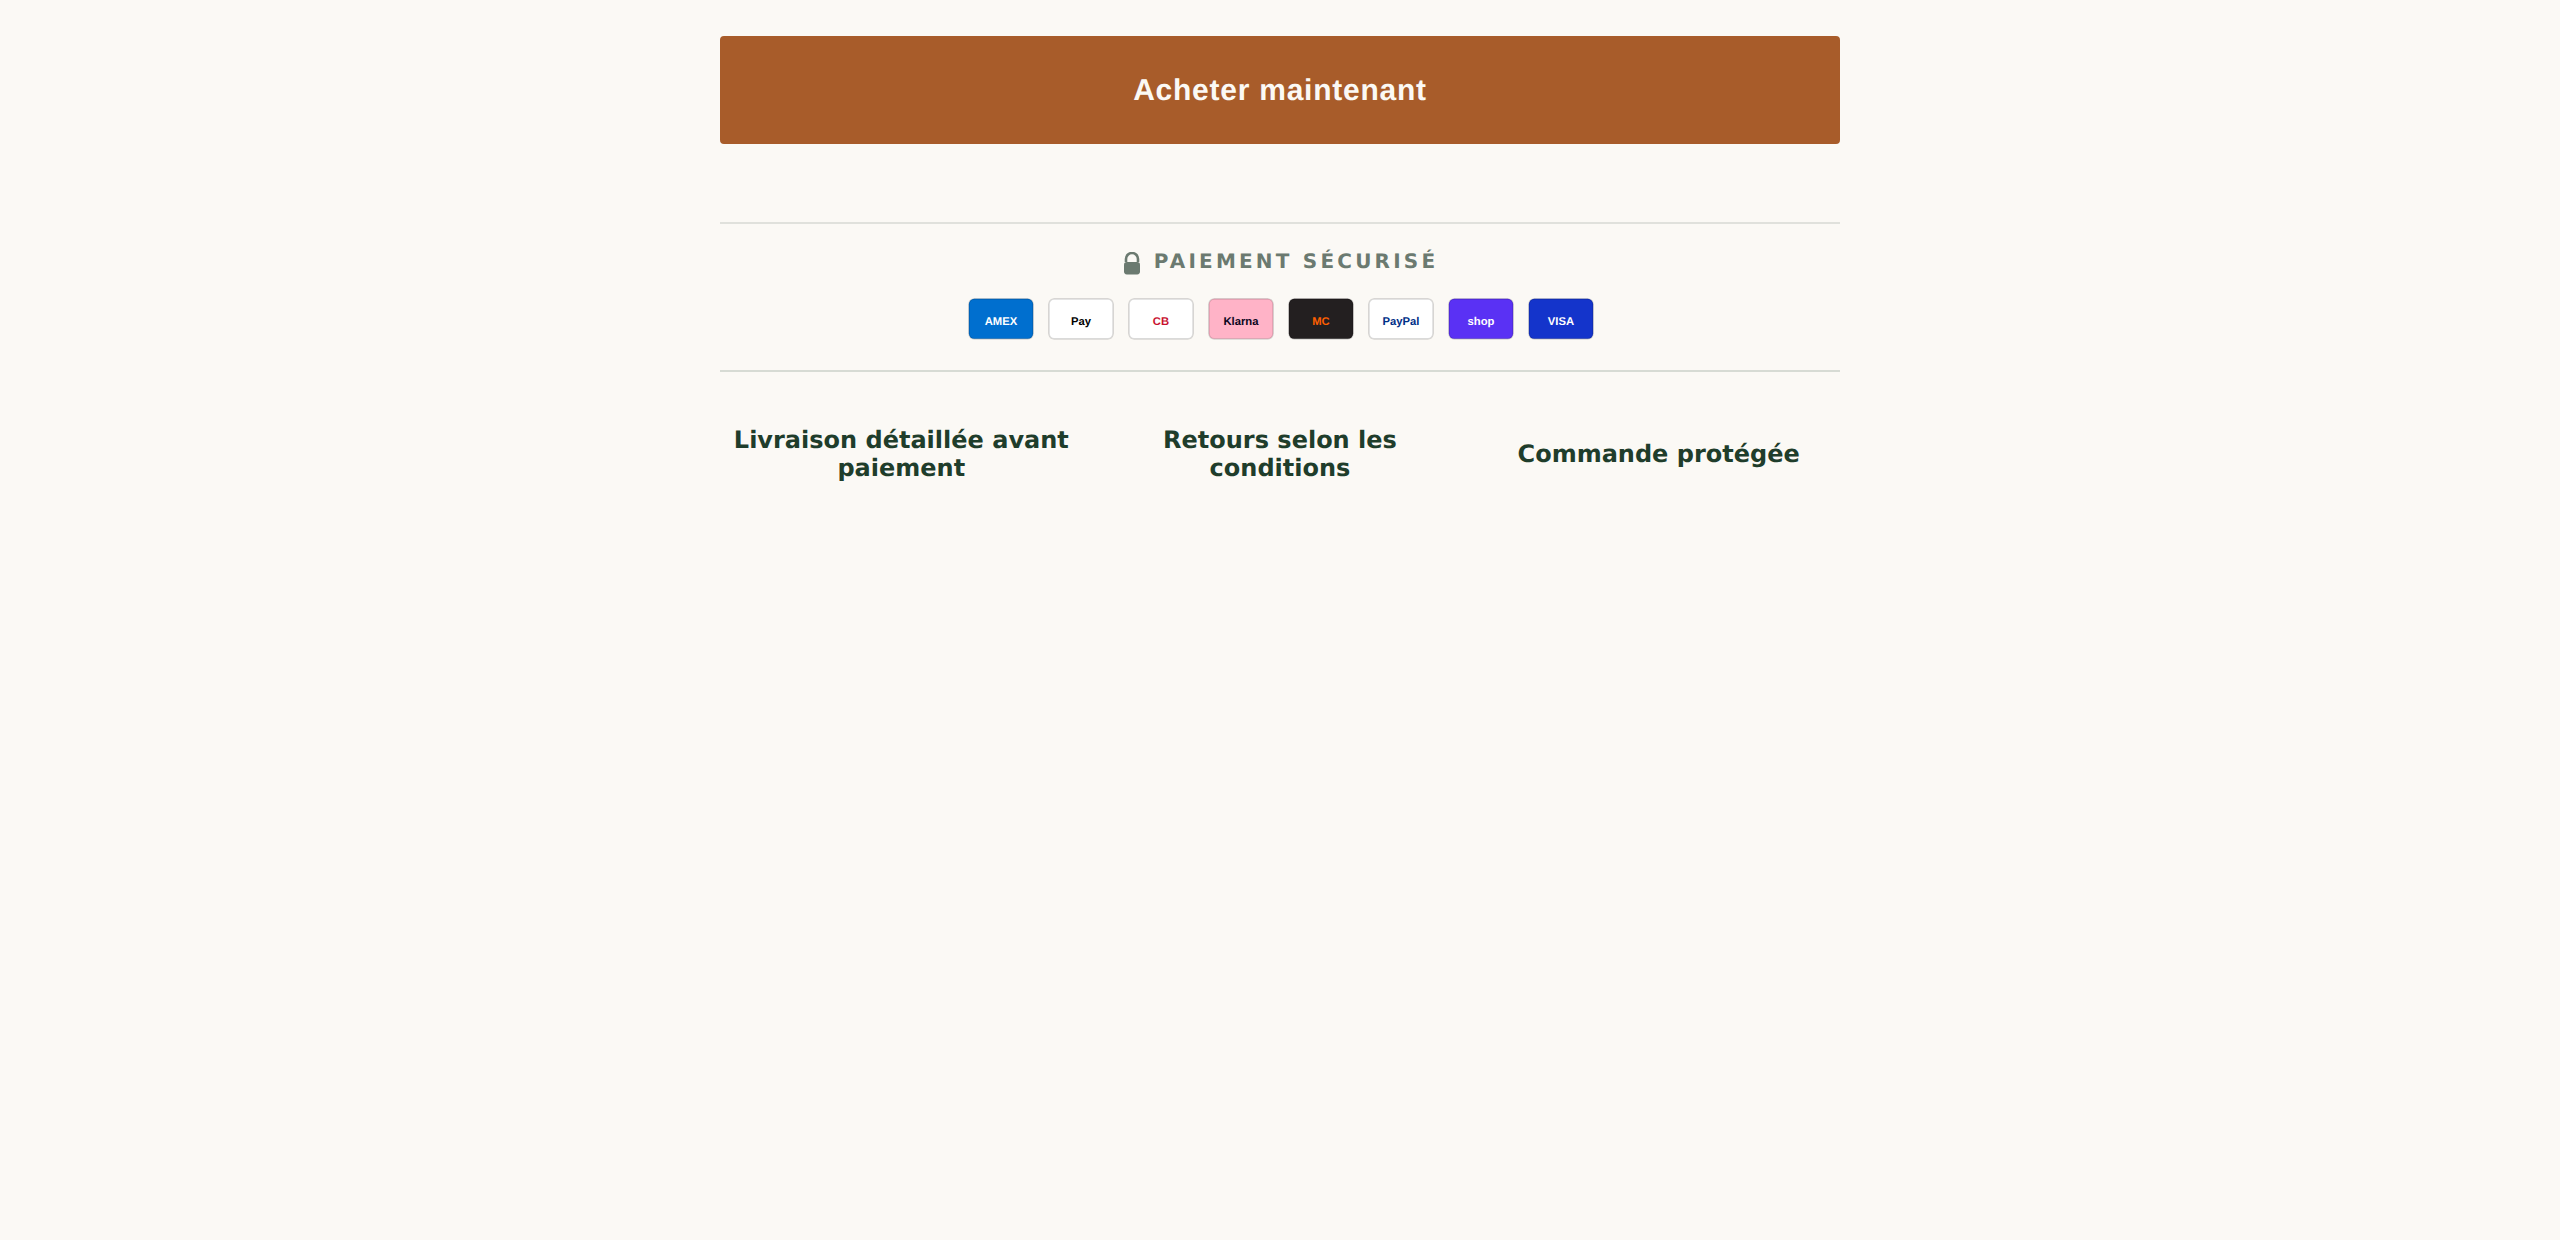
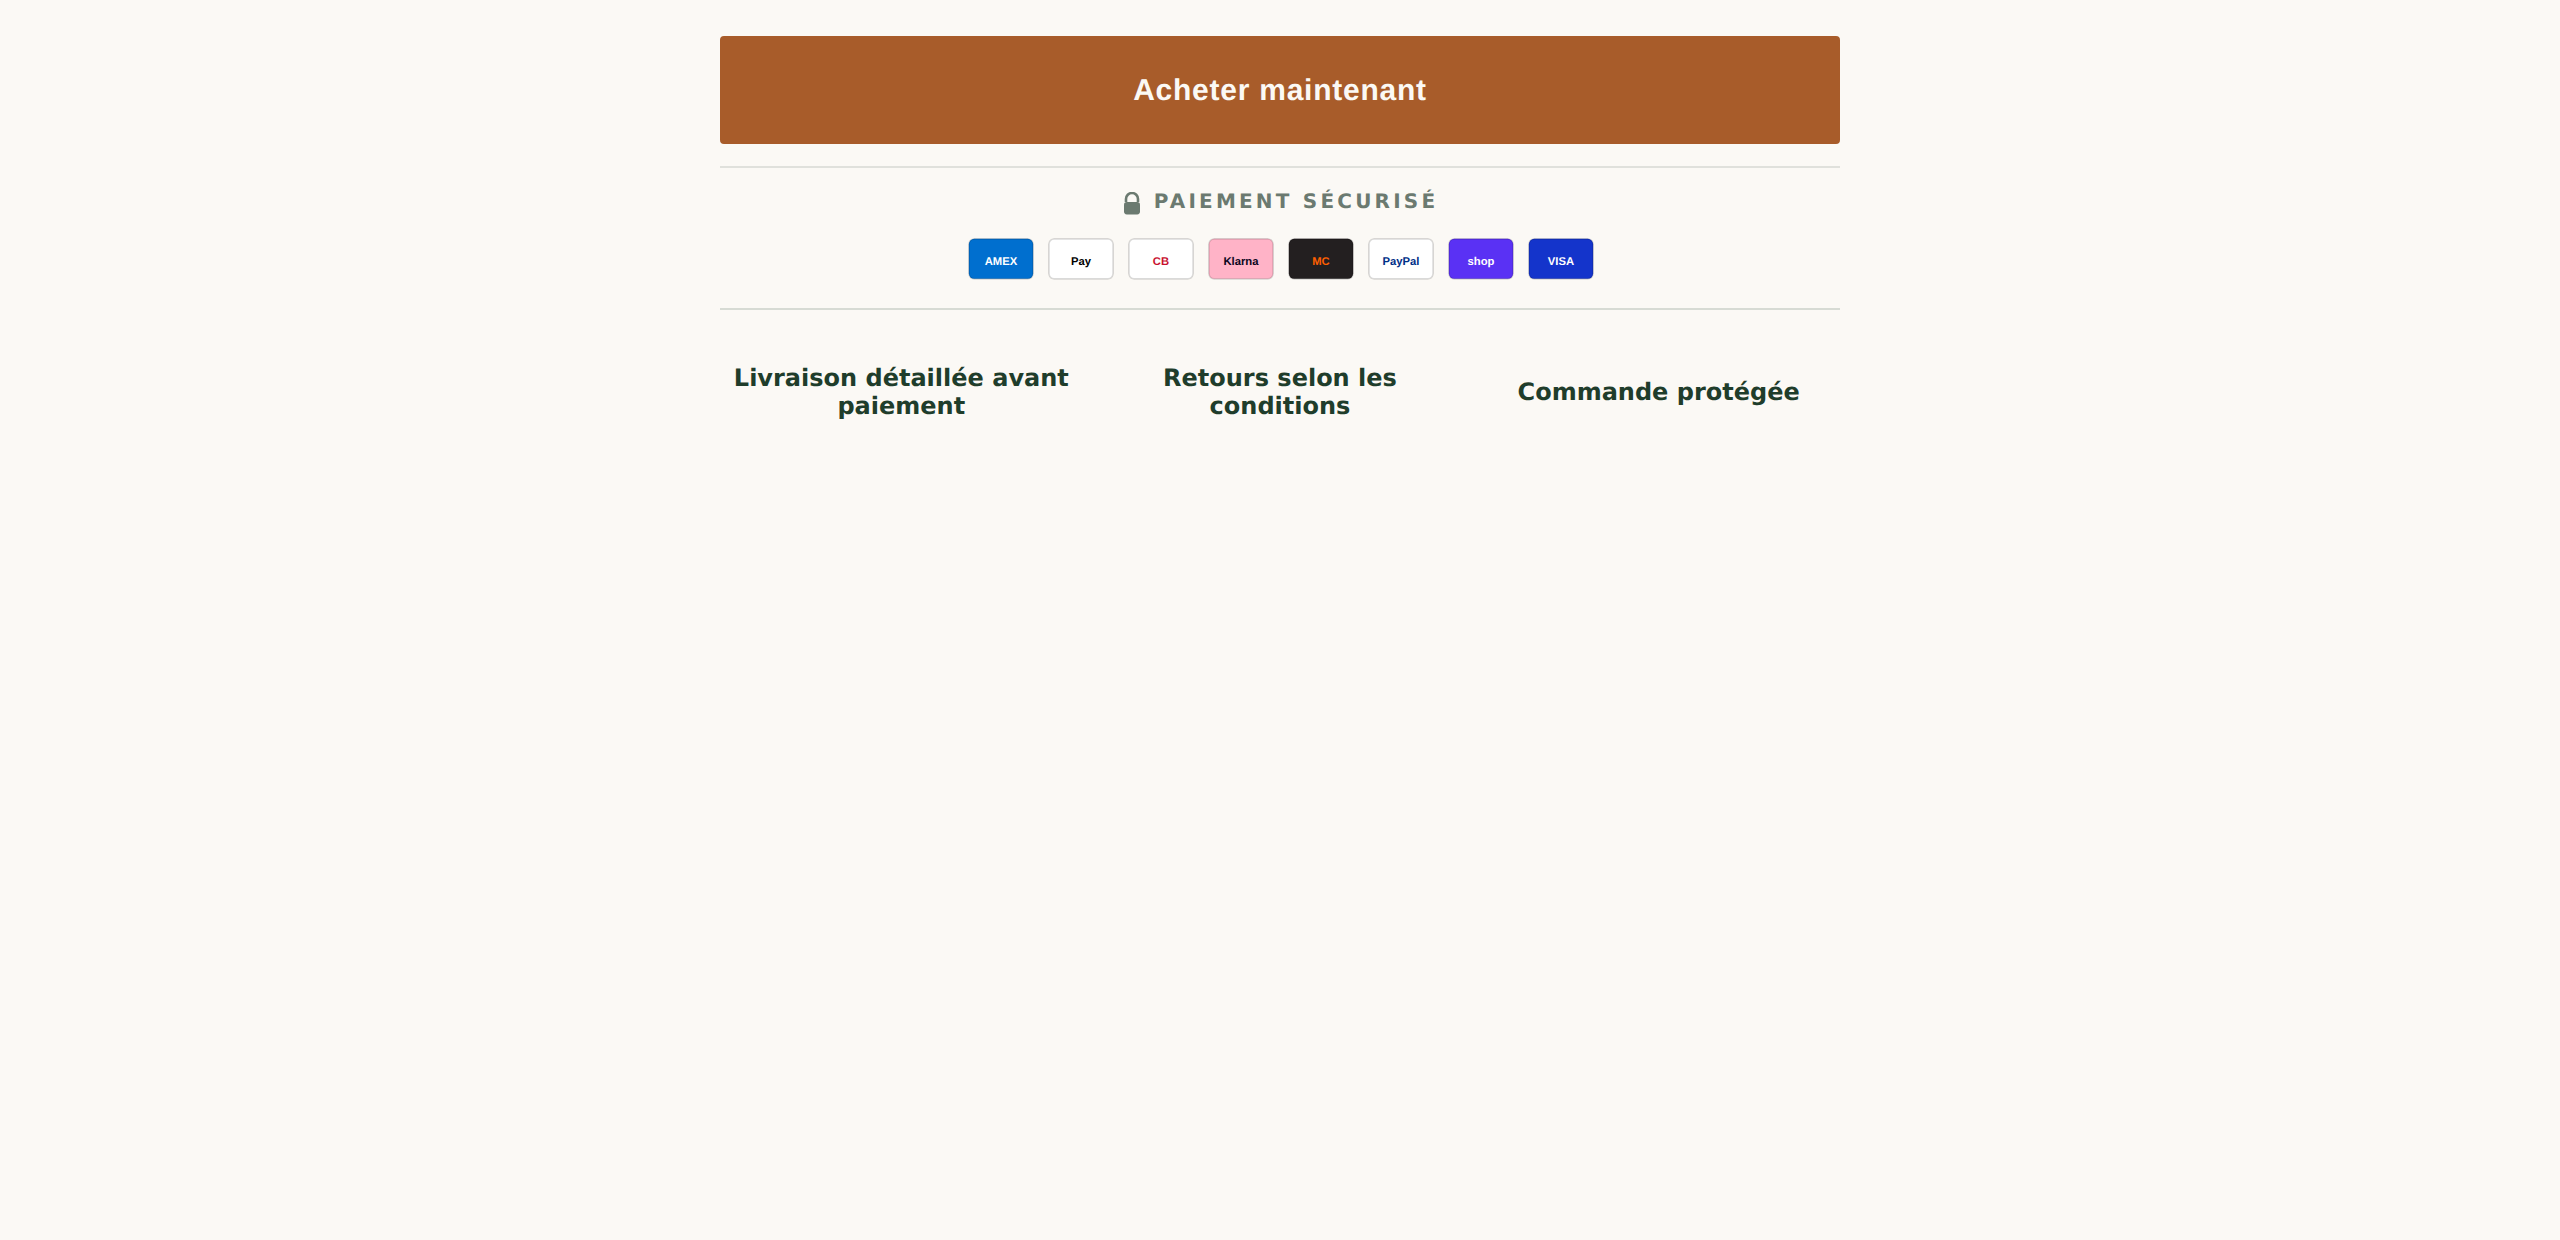
Paiement : resserre le blanc entre le bouton et le filet
La ligne de statut sous le bouton d'achat reservait 18 px de haut plus
7 px de marge en permanence, meme vide. Elle s'efface maintenant tant
qu'elle n'a rien a dire (:not(:empty)) et ne reprend sa marge qu'au
moment ou un message s'affiche : le comportement et l'aria-live sont
intacts, seul le vide disparait.

Marge haute du panneau 14 -> 11 px (9 sur mobile), retrait interne
14 -> 12 px.

Blanc entre le bas du bouton et le filet : 37 -> 9 px sur mobile,
11 px sur ordinateur. Panneau 72 -> 69 px. Toujours une seule ligne de
logos de 320 a 1280 px, sans debordement. Banc resynchronise.

Claude-Session: https://claude.ai/code/session_01WR7WH8cKXHngSegLqcbAFe

Changed region(s): [[0.2812, 0.1532, 0.625, 0.3984], [0.5938, 0.3065, 0.7188, 0.3984]]

diff --git a/tools/rendu/banc-paiement.html b/tools/rendu/banc-paiement.html
@@ -7,7 +7,8 @@
   .vrl-buy-now{display:flex;width:100%;min-height:54px;align-items:center;justify-content:center;
     padding:14px 22px;border:1px solid #A85C2A;border-radius:2px;color:#FBF9F5;background:#A85C2A;
     font-size:15px;font-weight:700;letter-spacing:.025em}
-  .vrl-buy-now-status{min-height:18px;margin:7px 0 0;color:#5C5C55;font:12px/1.45 "DM Sans",system-ui,sans-serif;text-align:center}
+  .vrl-buy-now-status{min-height:0;margin:0;color:#5C5C55;font:12px/1.45 "DM Sans",system-ui,sans-serif;text-align:center}
+  .vrl-buy-now-status:not(:empty){margin:7px 0 2px}
   .vrl-main-trust{display:grid;grid-template-columns:repeat(3,minmax(0,1fr));gap:8px;padding:18px 0 10px;
     border-top:1px solid rgba(31,61,43,.16);color:#1F3D2B;font-size:12px;font-weight:700;text-align:center}
   .vrl-main-trust a,.vrl-main-trust span{display:flex;min-height:38px;align-items:center;justify-content:center;padding:4px;color:inherit;text-decoration:none}
@@ -17,7 +18,7 @@
   }
 
   /* ==== EXACTEMENT LE CSS LIVRE ==== */
-  .vrl-payment-panel { margin-top: 14px; padding: 14px 0 15px; border-top: 1px solid rgba(31,61,43,.12); }
+  .vrl-payment-panel { margin-top: 11px; padding: 12px 0 14px; border-top: 1px solid rgba(31,61,43,.12); }
   .vrl-payment-panel__label { display: flex; align-items: center; justify-content: center; gap: 6px; margin-bottom: 11px; color: #6B7A70; font: 600 10px/1 "DM Sans", system-ui, sans-serif; letter-spacing: .16em; text-transform: uppercase; }
   .vrl-payment-panel__label svg { flex-shrink: 0; }
   .vrl-main-payments { display: flex; flex-wrap: wrap; align-items: center; justify-content: center; gap: 6px; margin: 0; padding: 0; list-style: none; }
@@ -27,7 +28,7 @@
     .vrl-main-payments { gap: 7px; }
     .vrl-main-payments svg { width: 33px; }
   }
-  @media (max-width: 749px) { .vrl-payment-panel { margin-top: 12px; } }
+  @media (max-width: 749px) { .vrl-payment-panel { margin-top: 9px; } }
 </style>
 <div class="col">
   <button class="vrl-buy-now">Acheter maintenant</button>

diff --git a/tools/rendu/mesure-paiement.js b/tools/rendu/mesure-paiement.js
@@ -10,7 +10,10 @@ const { chromium } = require('playwright');
       const lis = [...panel.querySelectorAll('li')];
       const tops = new Set(lis.map(li => Math.round(li.getBoundingClientRect().top)));
       const r = panel.getBoundingClientRect();
+      const btn = document.querySelector('.vrl-buy-now').getBoundingClientRect();
+      const rule = r.top;
       return {
+        blanc_bouton_vers_filet: Math.round(rule - btn.bottom),
         hauteur_panneau: Math.round(r.height),
         largeur_logo: Math.round(lis[0].getBoundingClientRect().width),
         hauteur_logo: Math.round(lis[0].getBoundingClientRect().height),
